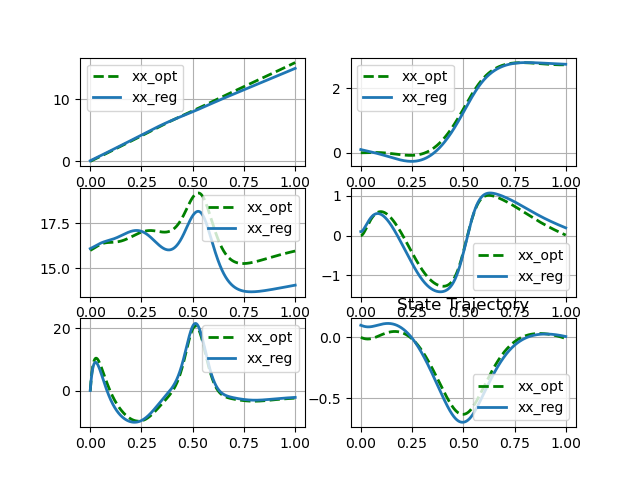
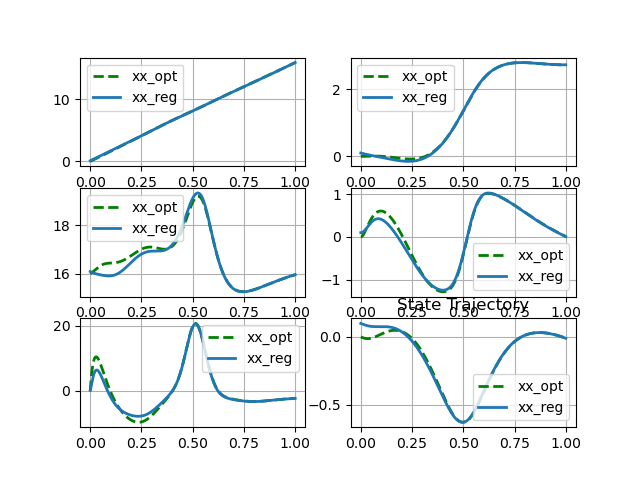
LQR tracking better parameters

diff --git a/lqr_tracking.py b/lqr_tracking.py
@@ -321,8 +321,9 @@ def plot_trajectory(xx_opt,uu_opt,xx_lqr,uu_lqr,tt):
 if __name__ == '__main__':
 	dyn = Dynamics()
 	ns, ni = dyn.ns, dyn.ni
-	QQt = np.eye(ns)*1e-5
-	QQt[1,1] = 0.01
+	QQt = np.eye(ns)*0.01
+	QQt[1,1] = 10
+	QQt[0,0] = 10
 	RRt = np.eye(ni)*1e-5
 	QQT = QQt.copy()
 	xx_opt,uu_opt = np.load('Data/xx_star.npy'), np.load('Data/uu_star.npy')
